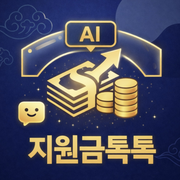
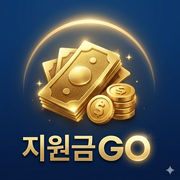
feat: 브랜드 '지원금GO' 리브랜딩 — 금색 로고 + 앱 아이콘 교체
- 지원금톡톡 → 지원금GO 전체 변경 (9개 파일, 23곳)
- 남색 배지 + 금색 그라데이션 텍스트 + shine 애니메이션
- 앱 아이콘 전체 교체 (512/192/128/180/favicon)

diff --git a/frontend/src/components/Dashboard.tsx b/frontend/src/components/Dashboard.tsx
@@ -356,8 +356,8 @@ export default function Dashboard({ matches, profile, onEditProfile, onLogout, p
 
       {/* 브랜드 */}
       <div className="relative z-10 text-center py-3">
-        <h2 className="text-xl font-black text-slate-900 tracking-tight mb-1">
-          <span className="text-indigo-600">지원금톡톡</span>
+        <h2 className="text-base font-black tracking-tight mb-1">
+          <span className="brand-badge brand-go-hover"><span className="brand-name">지원금</span><span className="brand-go">GO</span></span>
         </h2>
         <p className="text-[11px] text-slate-500 font-medium leading-relaxed">
           AI가 매시간 5,000개 이상의<br />정부 공고를 분석합니다
@@ -453,7 +453,7 @@ export default function Dashboard({ matches, profile, onEditProfile, onLogout, p
             className="w-full py-2 bg-indigo-600 text-white rounded-lg font-bold text-[11px] hover:bg-indigo-700 transition-all active:scale-95 shadow-md flex items-center justify-center gap-1.5"
           >
             <span className="text-xs">⬇</span>
-            지원금톡톡 설치
+            지원금GO 설치
           </button>
         </div>
       )}
@@ -523,9 +523,9 @@ export default function Dashboard({ matches, profile, onEditProfile, onLogout, p
           <button
             onClick={() => {
               const url = window.location.origin;
-              const text = "AI가 나에게 맞는 정부지원금을 찾아줘요! 지원금톡톡에서 확인해보세요.";
+              const text = "AI가 나에게 맞는 정부지원금을 찾아줘요! 지원금GO에서 확인해보세요.";
               if (navigator.share) {
-                navigator.share({ title: "지원금톡톡", text, url });
+                navigator.share({ title: "지원금GO", text, url });
               } else {
                 navigator.clipboard.writeText(`${text} ${url}`).then(() => toast("공유 텍스트가 복사되었습니다!", "success"));
               }
@@ -666,12 +666,12 @@ export default function Dashboard({ matches, profile, onEditProfile, onLogout, p
             <button
               onClick={() => {
                 const url = `${window.location.origin}?ref=${profile.referral_code}`;
-                const text = `AI가 우리 기업에 맞는 정부지원금을 찾아줘요! 지원금톡톡에서 확인해보세요.`;
+                const text = `AI가 우리 기업에 맞는 정부지원금을 찾아줘요! 지원금GO에서 확인해보세요.`;
                 if (typeof window !== "undefined" && (window as any).Kakao?.Share) {
                   (window as any).Kakao.Share.sendDefault({
                     objectType: "feed",
                     content: {
-                      title: "지원금톡톡",
+                      title: "지원금GO",
                       description: text,
                       imageUrl: `${window.location.origin}/icon-512.png`,
                       link: { mobileWebUrl: url, webUrl: url },
@@ -692,7 +692,7 @@ export default function Dashboard({ matches, profile, onEditProfile, onLogout, p
                 const url = `${window.location.origin}?ref=${profile.referral_code}`;
                 const text = `AI가 우리 기업에 맞는 정부지원금을 찾아줘요!`;
                 if (navigator.share) {
-                  navigator.share({ title: "지원금톡톡", text, url });
+                  navigator.share({ title: "지원금GO", text, url });
                 } else {
                   navigator.clipboard.writeText(`${text} ${url}`).then(() => toast("공유 텍스트가 복사되었습니다!", "success"));
                 }
@@ -746,7 +746,7 @@ export default function Dashboard({ matches, profile, onEditProfile, onLogout, p
             className="w-full py-2 bg-indigo-600 text-white rounded-lg font-bold text-[11px] hover:bg-indigo-700 transition-all active:scale-95 shadow-md flex items-center justify-center gap-1.5"
           >
             <span className="text-xs">⬇</span>
-            지원금톡톡 설치
+            지원금GO 설치
           </button>
         </div>
       )}
@@ -870,7 +870,7 @@ export default function Dashboard({ matches, profile, onEditProfile, onLogout, p
       {/* 모바일 상단 바 (lg 미만에서만 표시) — 로그인 사용자만 */}
       {isPublic ? null : (
         <div className="lg:hidden flex items-center py-3 mb-4 border-b border-slate-200/60">
-          <span className="text-base font-bold text-indigo-600 tracking-tight">지원금톡톡</span>
+          <span className="text-base font-bold tracking-tight brand-badge-sm brand-go-hover"><span className="brand-name">지원금</span><span className="brand-go">GO</span></span>
           {planStatus && (
             <span className={`ml-2 text-[11px] font-bold uppercase tracking-widest ${
               planStatus.plan === "pro" || planStatus.plan === "biz" ? "text-violet-600" :
@@ -989,12 +989,14 @@ export default function Dashboard({ matches, profile, onEditProfile, onLogout, p
           </div>
 
           <header className="space-y-3">
-            <h2 className="text-xl sm:text-2xl md:text-3xl lg:text-4xl font-bold text-slate-950 tracking-tighter leading-tight flex flex-wrap items-baseline gap-1.5 sm:gap-3">
-              <span className={consultantResult ? "text-violet-600" : "text-indigo-600"}>
-                {consultantResult ? "컨설턴트 매칭" : "지원금톡톡"}
-              </span>
+            <h2 className="text-base sm:text-lg md:text-xl lg:text-2xl font-bold text-slate-950 tracking-tighter leading-tight flex flex-wrap items-baseline gap-1.5 sm:gap-3">
+              {consultantResult ? (
+                <span className="text-violet-600">컨설턴트 매칭</span>
+              ) : (
+                <span className="brand-badge brand-go-hover"><span className="brand-name">지원금</span><span className="brand-go">GO</span></span>
+              )}
               <span className="text-[11px] sm:text-xs md:text-sm font-medium text-slate-500 tracking-normal">
-                {consultantResult ? `${consultantResult.profile?.company_name || "고객사"} 맞춤 결과` : "AI가 찾아주는 맞춤 정부보조금"}
+                {consultantResult ? `${consultantResult.profile?.company_name || "고객사"} 맞춤 결과` : "AI가 찾아주는 맞춤 정부지원금"}
               </span>
             </h2>
 

diff --git a/frontend/src/app/globals.css b/frontend/src/app/globals.css
@@ -129,3 +129,73 @@ h1, h2, h3, h4 {
 .animate-sparkle {
   animation: sparkle 2s ease-in-out infinite;
 }
+
+/* Brand "지원금GO" gold effect — inspired by app icon */
+.brand-name {
+  display: inline-block;
+  background: linear-gradient(180deg, #C8963E 0%, #E8C36A 35%, #F5D98A 50%, #E8C36A 65%, #9A6F2B 100%);
+  -webkit-background-clip: text;
+  -webkit-text-fill-color: transparent;
+  background-clip: text;
+  font-weight: 900;
+  filter: drop-shadow(0 1px 2px rgba(154, 111, 43, 0.3));
+  position: relative;
+}
+
+.brand-go {
+  display: inline-block;
+  background: linear-gradient(180deg, #D4A853 0%, #F5D78E 30%, #FFF1C9 50%, #F5D78E 70%, #B8862D 100%);
+  -webkit-background-clip: text;
+  -webkit-text-fill-color: transparent;
+  background-clip: text;
+  font-weight: 900;
+  filter: drop-shadow(0 1px 3px rgba(184, 134, 45, 0.4));
+  position: relative;
+}
+
+.brand-go::after {
+  content: "GO";
+  position: absolute;
+  inset: 0;
+  background: linear-gradient(90deg, transparent 20%, rgba(255,241,201,0.8) 50%, transparent 80%);
+  background-size: 200% 100%;
+  -webkit-background-clip: text;
+  background-clip: text;
+  -webkit-text-fill-color: transparent;
+  animation: gold-shine 3s ease-in-out infinite;
+}
+
+@keyframes gold-shine {
+  0% { background-position: -200% 0; }
+  100% { background-position: 200% 0; }
+}
+
+/* Dark navy badge behind gold text */
+.brand-badge {
+  display: inline-block;
+  background: linear-gradient(135deg, #1a2744 0%, #1e3a5f 50%, #1a2744 100%);
+  padding: 2px 10px 3px;
+  border-radius: 6px;
+  box-shadow: 0 2px 6px rgba(26, 39, 68, 0.25), inset 0 1px 0 rgba(255, 255, 255, 0.05);
+}
+
+.brand-badge-sm {
+  display: inline-block;
+  background: linear-gradient(135deg, #1a2744 0%, #1e3a5f 50%, #1a2744 100%);
+  padding: 2px 10px 3px;
+  border-radius: 6px;
+  box-shadow: 0 2px 6px rgba(26, 39, 68, 0.25);
+}
+
+.brand-badge-lg {
+  padding: 6px 20px 7px;
+  border-radius: 10px;
+}
+
+.brand-go-hover {
+  transition: transform 0.3s ease;
+}
+.brand-go-hover:hover .brand-go {
+  transform: translateX(3px);
+  transition: transform 0.3s ease;
+}

diff --git a/frontend/src/app/privacy/page.tsx b/frontend/src/app/privacy/page.tsx
@@ -8,7 +8,7 @@ export default function PrivacyPage() {
       <section className="space-y-6 text-sm leading-relaxed">
         <div>
           <h2 className="text-lg font-bold mb-2">1. 개인정보의 수집 및 이용 목적</h2>
-          <p>지원금톡톡(이하 &quot;서비스&quot;)은 다음의 목적을 위해 개인정보를 처리합니다.</p>
+          <p>지원금GO(이하 &quot;서비스&quot;)은 다음의 목적을 위해 개인정보를 처리합니다.</p>
           <ul className="list-disc ml-5 mt-2 space-y-1">
             <li>회원 가입 및 관리: 회원제 서비스 이용에 따른 본인 확인, 서비스 부정이용 방지</li>
             <li>서비스 제공: 맞춤형 정부지원금 매칭, AI 상담, 알림 서비스 제공</li>

diff --git a/frontend/src/app/page.tsx b/frontend/src/app/page.tsx
@@ -466,7 +466,7 @@ export default function Home() {
       {(step === "LOGIN" || step === "ONBOARDING") && (
         <div className="text-center mb-6 md:mb-8 animate-in fade-in duration-500">
           <h1 className="text-2xl md:text-3xl lg:text-4xl font-bold text-slate-900 mb-2 tracking-tighter">
-            <span className="text-indigo-600">지원금톡톡</span>
+            <span className="brand-badge brand-badge-lg brand-go-hover"><span className="brand-name">지원금</span><span className="brand-go">GO</span></span>
           </h1>
           <p className="text-slate-500 text-xs md:text-sm max-w-md mx-auto font-medium leading-relaxed px-4 opacity-80">
             AI가 매시간 5,000개 이상의 정부 공고를 분석하여

diff --git a/frontend/src/app/layout.tsx b/frontend/src/app/layout.tsx
@@ -14,13 +14,13 @@ const geistMono = Geist_Mono({
 });
 
 export const metadata: Metadata = {
-  title: "지원금톡톡 — AI가 찾아주는 맞춤 정부지원금",
+  title: "지원금GO — AI가 찾아주는 맞춤 정부지원금",
   description: "우리 기업에 딱 맞는 정부지원금을 AI가 자동으로 찾아드립니다. 중소기업 지원사업, 보조금, 정책자금 매칭.",
   manifest: "/manifest.json",
   appleWebApp: {
     capable: true,
     statusBarStyle: "default",
-    title: "지원금톡톡",
+    title: "지원금GO",
   },
   other: {
     "mobile-web-app-capable": "yes",

diff --git a/frontend/src/components/PaymentModal.tsx b/frontend/src/components/PaymentModal.tsx
@@ -98,7 +98,7 @@ export default function PaymentModal({ planStatus, onSuccess, onClose }: Payment
         method: "CARD",
         amount: { currency: "KRW", value: plan.price },
         orderId,
-        orderName: `지원금톡톡 ${plan.name} 플랜`,
+        orderName: `지원금GO ${plan.name} 플랜`,
         successUrl: `${window.location.origin}/payment/success?token=${encodeURIComponent(token || "")}&plan=${selectedPlan}`,
         failUrl: `${window.location.origin}/payment/fail`,
       });

diff --git a/frontend/public/sw.js b/frontend/public/sw.js
@@ -5,7 +5,7 @@ self.addEventListener('fetch', (event) => {
 });
 
 self.addEventListener('push', (event) => {
-  let data = { title: '지원금톡톡', body: '새로운 알림이 있습니다.', url: '/' };
+  let data = { title: '지원금GO', body: '새로운 알림이 있습니다.', url: '/' };
   try {
     data = event.data.json();
   } catch (e) { /* use defaults */ }

diff --git a/frontend/src/app/admin/page.tsx b/frontend/src/app/admin/page.tsx
@@ -774,7 +774,7 @@ function AdminDashboard({ onLogout }: { onLogout: () => void }) {
         )}
 
         <footer className="text-center text-slate-400 text-xs pt-4 pb-8">
-          &copy; 2026 지원금톡톡 &mdash; Admin Panel
+          &copy; 2026 지원금GO &mdash; Admin Panel
         </footer>
       </div>
     </div>

diff --git a/backend/app/main.py b/backend/app/main.py
@@ -2285,7 +2285,7 @@ def admin_push_test():
     sent = 0
     failed = 0
     payload = json.dumps({
-        "title": "지원금톡톡",
+        "title": "지원금GO",
         "body": "새로운 맞춤 공고가 등록되었습니다!",
         "url": "/",
     }, ensure_ascii=False)
